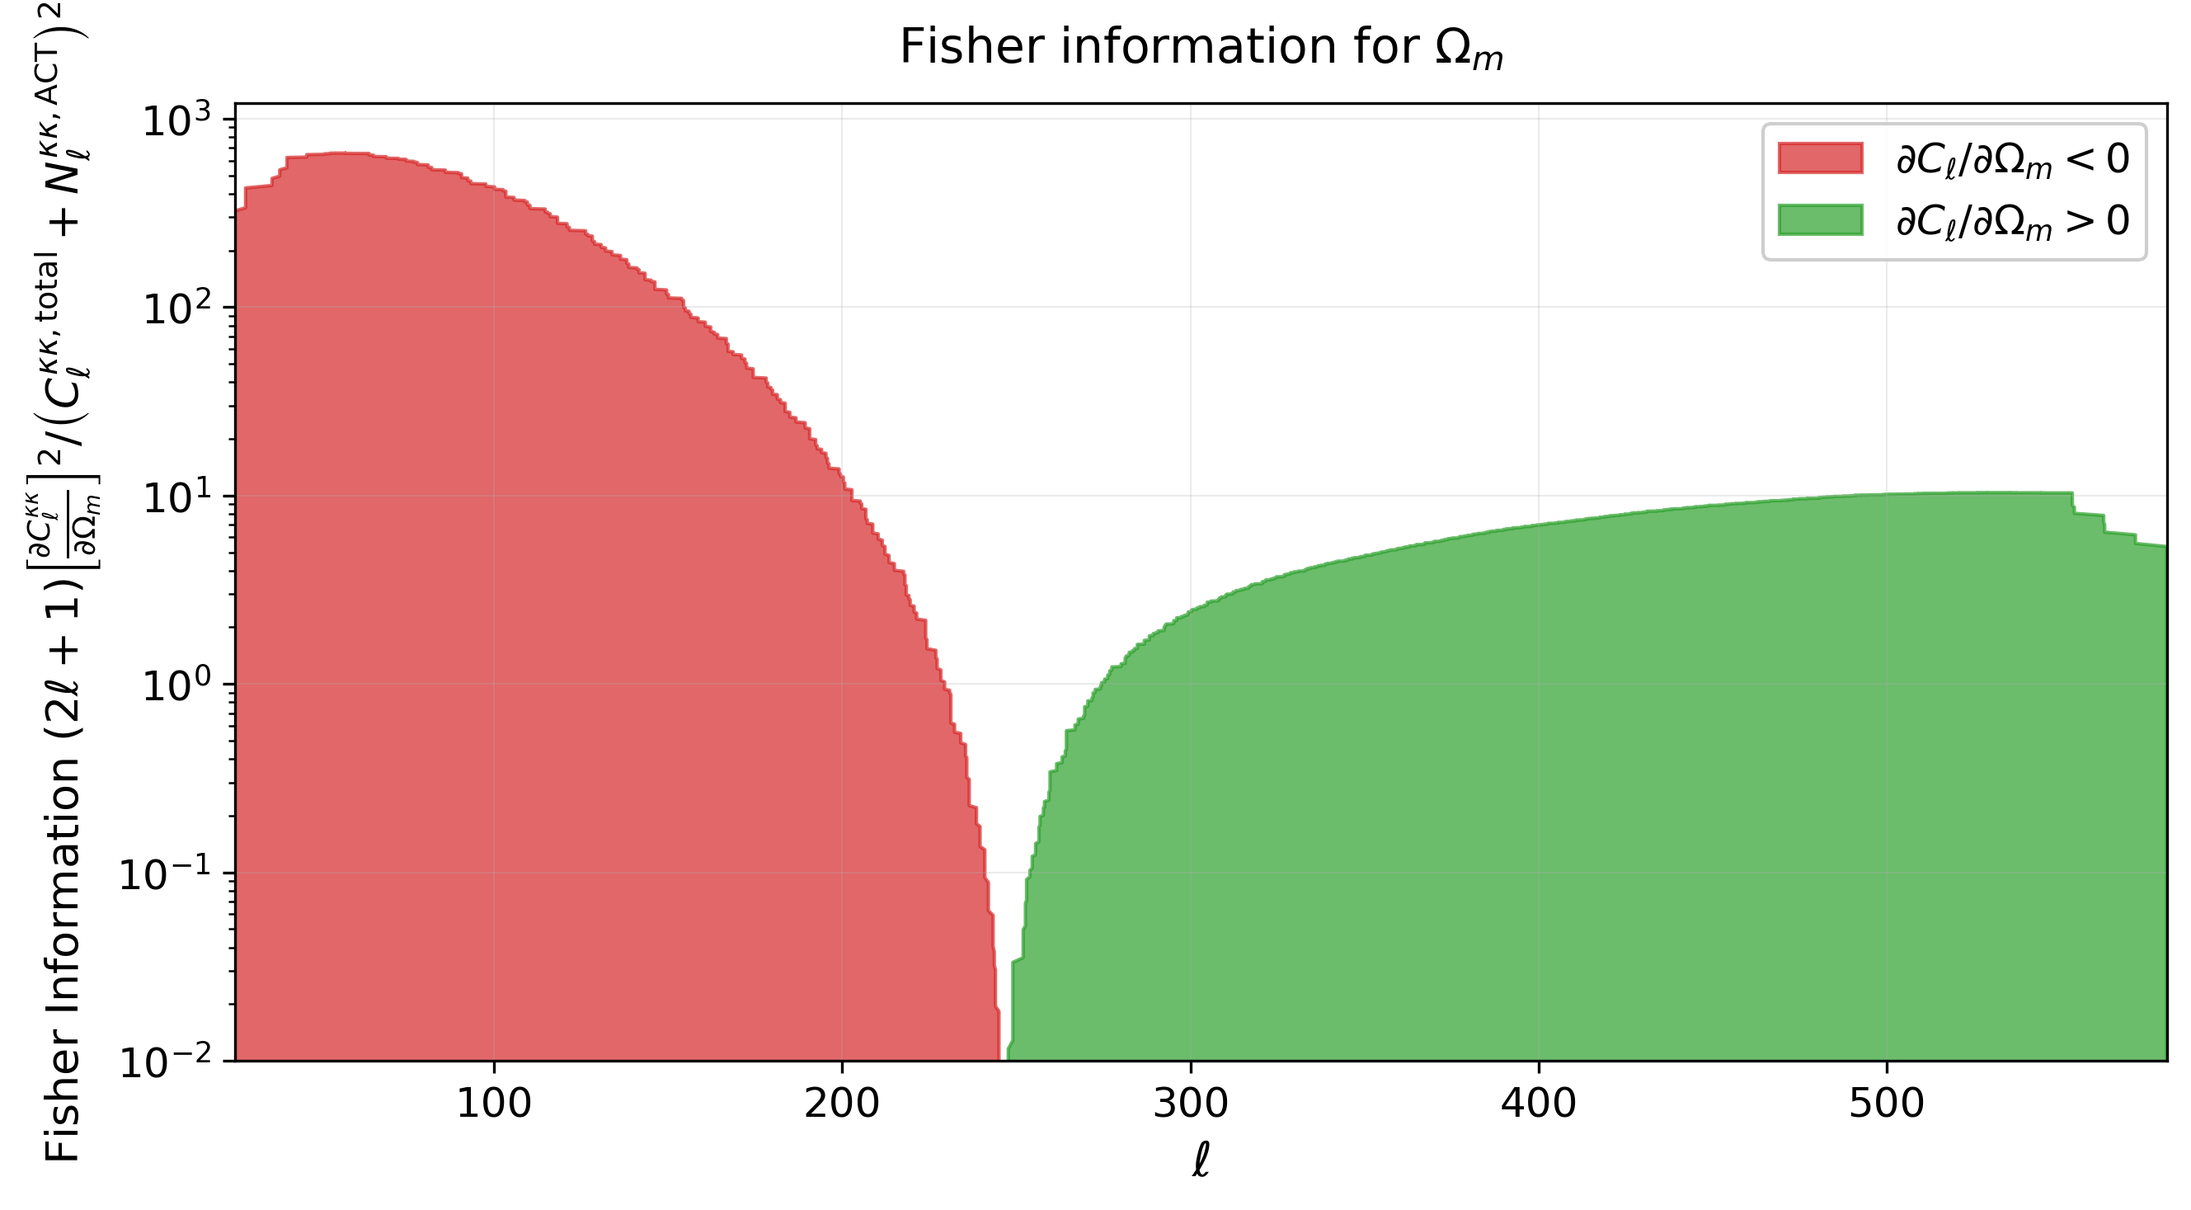
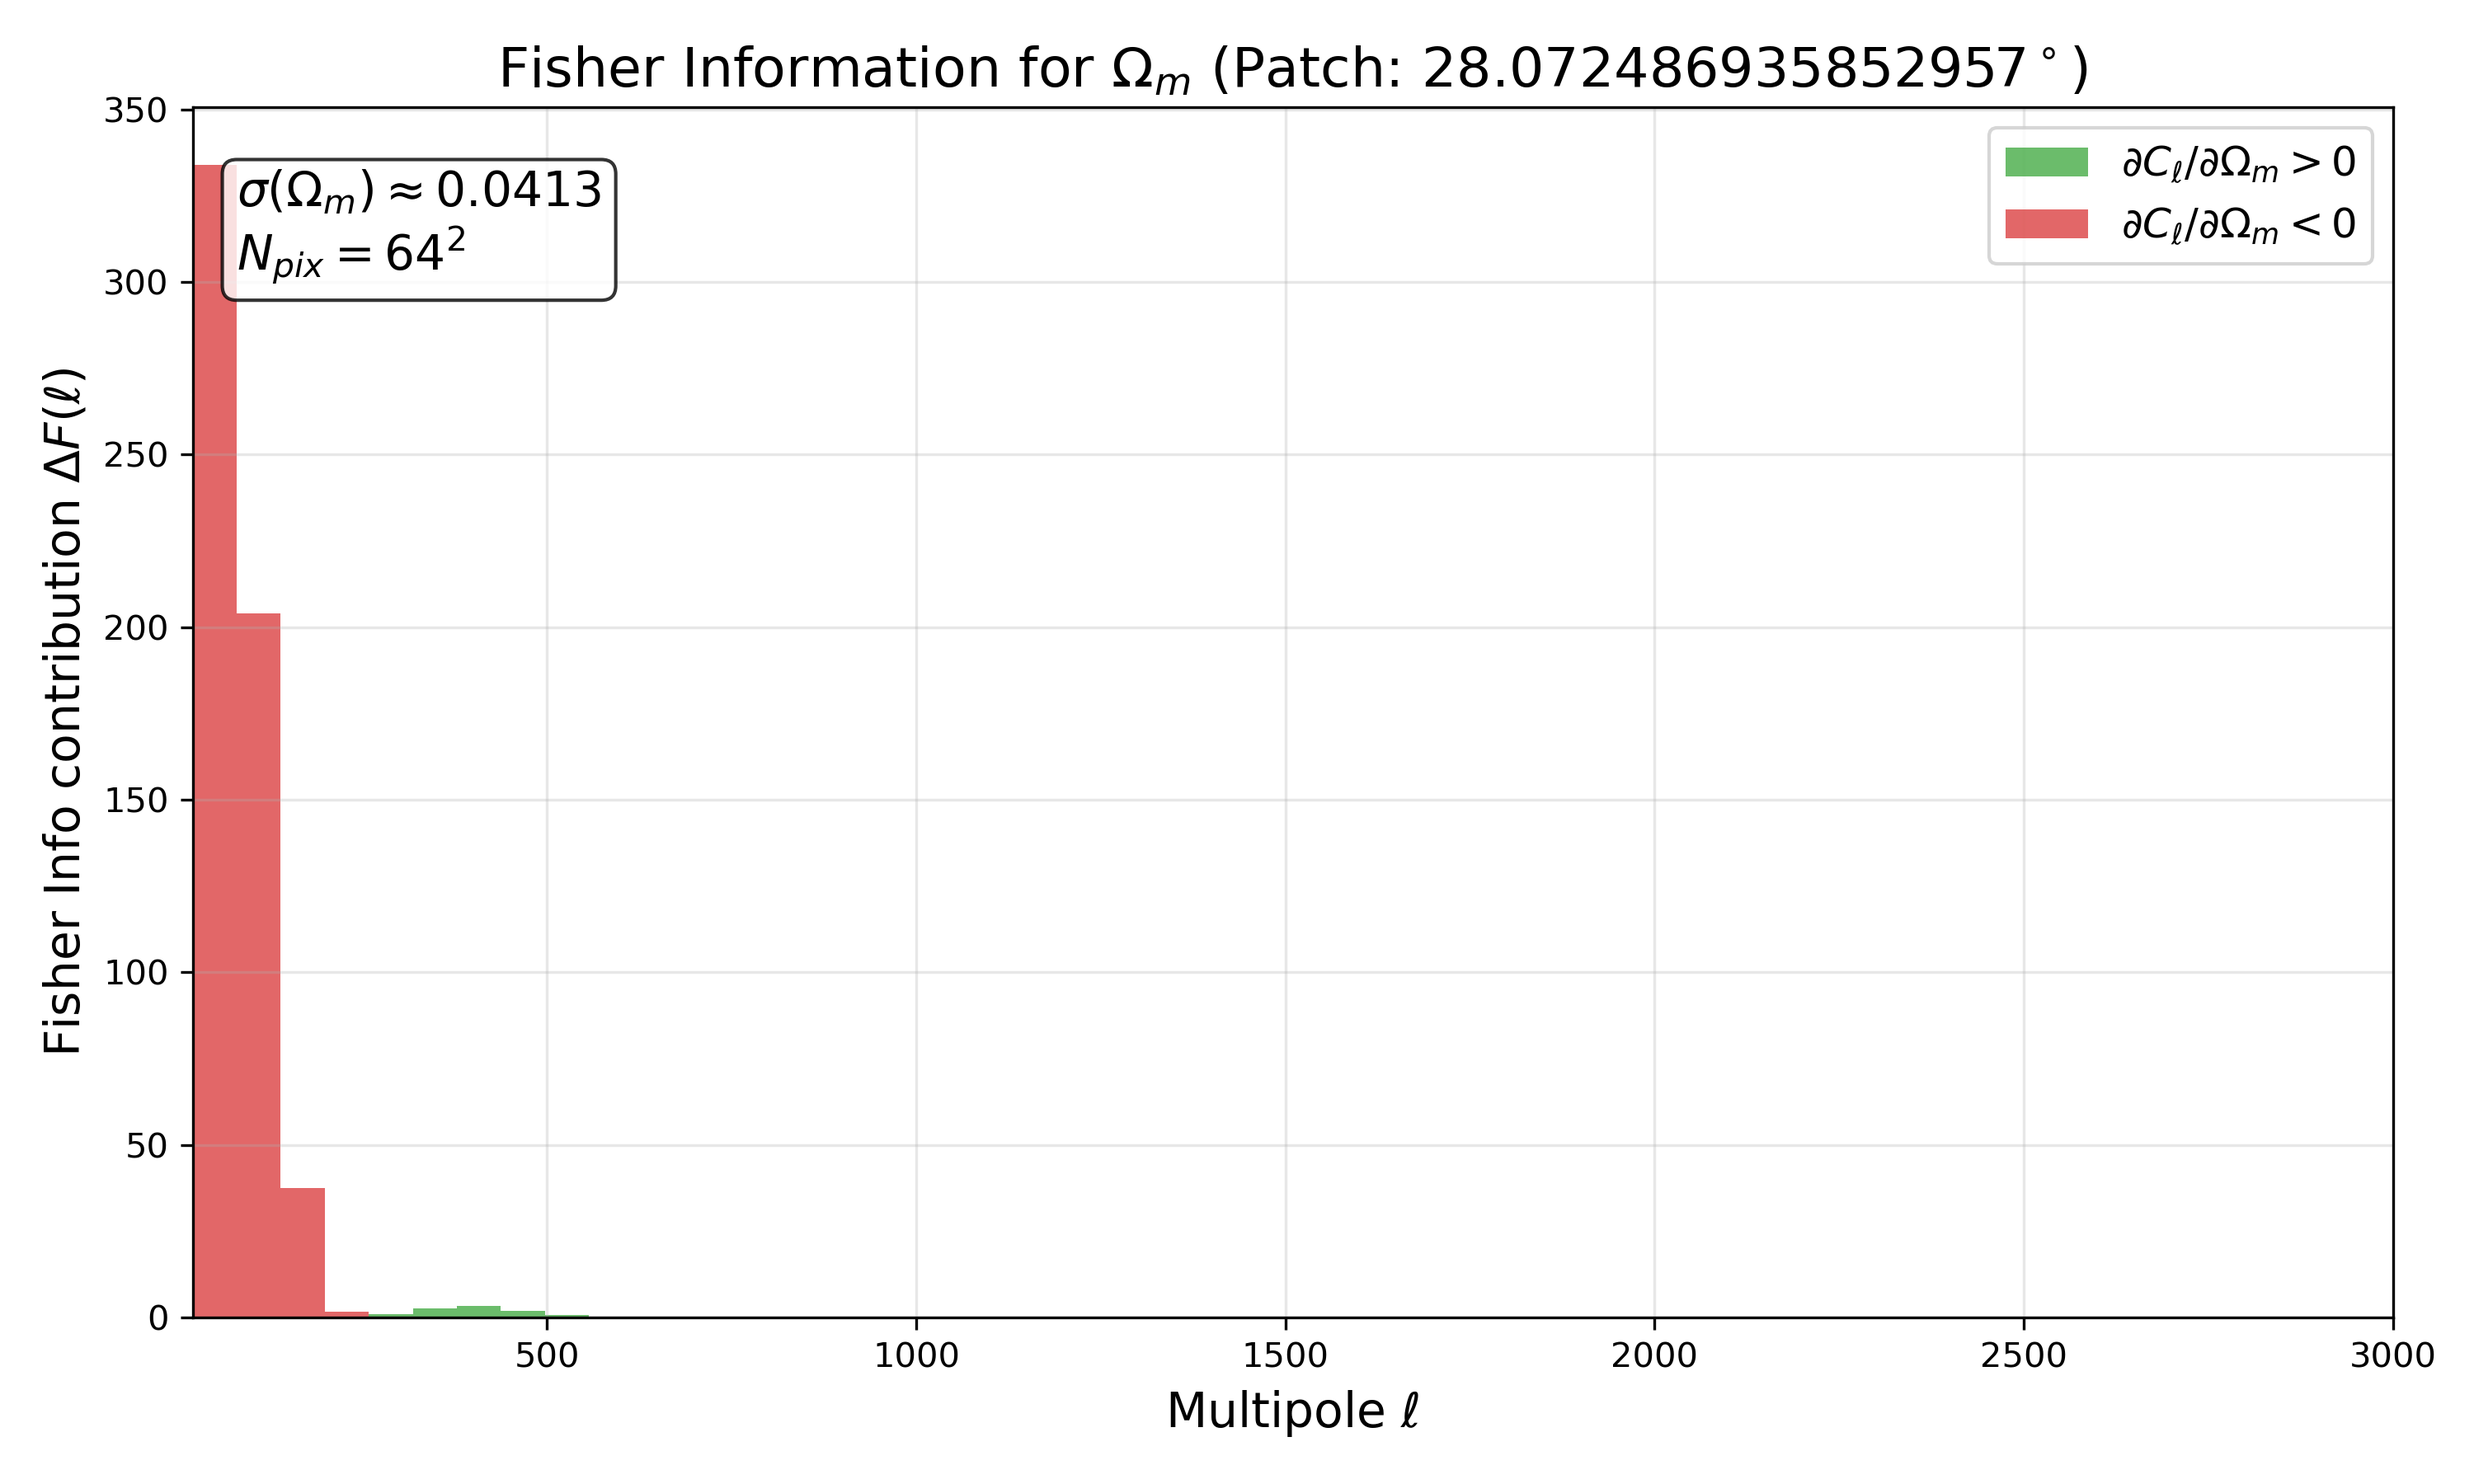
fisher analysis corrected

diff --git a/scripts/analyze_fisher_scales.py b/scripts/analyze_fisher_scales.py
@@ -1,3 +1,5 @@
+import os
+
 import jax.numpy as jnp
 import matplotlib.pyplot as plt
 import numpy as np
@@ -10,16 +12,20 @@ from desi_cmb_fli.model import get_model_from_config
 
 
 def simple_fisher(config_path="configs/inference/config.yaml"):
-    # 1. Load model to get ell grid and noise
+    print(f"Loading config from {config_path}...")
+
+    # 1. Load model configuration
     with open(config_path) as f:
         cfg = yaml.safe_load(f)
 
+    # Force CMB lensing enabled and setup for theoretical calculation
     if 'cmb_lensing' not in cfg:
         cfg['cmb_lensing'] = {}
 
     cfg['cmb_lensing']['enabled'] = True
-    cfg['cmb_lensing']['full_los_correction'] = False  # We'll compute full Cl manually
+    cfg['cmb_lensing']['full_los_correction'] = False  # We compute full Cl manually here
 
+    # Defaults if missing
     if 'cmb_noise_nell' not in cfg['cmb_lensing']:
         cfg['cmb_lensing']['cmb_noise_nell'] = "data/N_L_kk_act_dr6_lensing_v1_baseline.txt"
     if 'z_source' not in cfg['cmb_lensing']:
@@ -27,80 +33,116 @@ def simple_fisher(config_path="configs/inference/config.yaml"):
     if 'field_npix' not in cfg['cmb_lensing']:
         cfg['cmb_lensing']['field_npix'] = 256
 
+    # Instantiate model to get grid geometry and noise
     model, _ = get_model_from_config(cfg)
 
-    print("Computing total C_l (z=0 to z_CMB) and gradients...")
+    print("Computing gradients and Fisher info (this may take a moment)...")
 
-    # 2. Compute total Cl and gradients (full line of sight)
+    # 2. Setup Variables
     ell_2d = model.ell_grid
     noise_2d = model.cmb_noise_power_k
     loc_fid = model.loc_fid
 
-    # Wrapper function for differentiation
+    # Wrapper function for differentiation (Total C_l from z=0 to z_CMB)
     def get_cl_total(theta):
         Om, s8 = theta
+        # Reconstruct cosmology from params
         cosmo = get_cosmology(Omega_m=Om, sigma8=s8)
-        # full line of sight: chi_min = 1.0 (near z=0)
+
+        # Integrate from chi_min=1.0 (approx z=0) to chi_max=14000 (z_CMB)
+        # This captures the total lensing signal (Box + High-Z)
         return compute_theoretical_cl_kappa(
             cosmo, ell_2d,
-            chi_min=1.0,  # Start from z≈0
-            chi_max=14000.0,  # To z_CMB
-            z_source=1100.0
+            chi_min=1.0,
+            chi_max=14000.0,
+            z_source=cfg['cmb_lensing']['z_source']
         )
 
     # Fiducial point
     theta_fid = jnp.array([loc_fid["Omega_m"], loc_fid["sigma8"]])
 
-    # Compute Cl at fiducial
+    # 3. Compute Jacobian (Automatic Differentiation)
+    # This computes dCl / dTheta exactly
     Cl_2d = get_cl_total(theta_fid)
-
-    # Compute Jacobian (gradients)
     jac_fn = jacfwd(get_cl_total)
     grads = jac_fn(theta_fid)
-    dCl_dOm_2d = grads[..., 0]
 
-    # 3. Extract data (flatten 2D grids)
-    ell = ell_2d.flatten()
-    dCl = dCl_dOm_2d.flatten()
-    Cl = Cl_2d.flatten()
-    Nl = noise_2d.flatten()
+    dCl_dOm_2d = grads[..., 0] # Derivative w.r.t Omega_m
+    # dCl_ds8_2d = grads[..., 1] # Derivative w.r.t sigma8 (unused for this plot)
 
-    # 4. Filter and Sort (for plotting)
-    mask = (ell > 20) & (ell < 3000) & np.isfinite(dCl) & np.isfinite(Cl) & np.isfinite(Nl)
-    ell, dCl, Cl, Nl = ell[mask], dCl[mask], Cl[mask], Nl[mask]
+    # 4. Fisher Information Calculation
 
-    idx = np.argsort(ell)
-    ell, dCl, Cl, Nl = ell[idx], dCl[idx], Cl[idx], Nl[idx]
+    # Filter valid modes (remove DC mode l=0 and very high l where noise dominates)
+    mask = (ell_2d > 20) & (ell_2d < 3000) & \
+           jnp.isfinite(dCl_dOm_2d) & jnp.isfinite(Cl_2d) & jnp.isfinite(noise_2d)
 
-    # 5. Fisher Information calculation (per mode l)
-    Var = Cl + Nl
-    Fisher_per_mode = (dCl / Var)**2
+    ell_flat = ell_2d[mask]
+    dCl_flat = dCl_dOm_2d[mask]
+    Cl_flat = Cl_2d[mask]
+    Nl_flat = noise_2d[mask]
 
-    # Total info per multipole l (sum over 2l+1 modes m)
-    w_smooth = np.convolve(Fisher_per_mode * (2*ell+1), np.ones(50)/50, mode='same')
+    fisher_per_pixel = 0.5 * (dCl_flat / (Cl_flat + Nl_flat))**2
 
-    plt.figure(figsize=(9, 5))
+    # Total Information (Sum over all pixels)
+    total_fisher = jnp.sum(fisher_per_pixel)
+    predicted_sigma = 1.0 / jnp.sqrt(total_fisher)
 
-    # Red Zone vs Green
-    sign = np.sign(dCl)
-    plt.fill_between(ell, 0, w_smooth, where=(sign < 0), color='#d62728', alpha=0.7,
-                     label=r'$\partial C_\ell / \partial\Omega_m < 0$')
-    plt.fill_between(ell, 0, w_smooth, where=(sign > 0), color='#2ca02c', alpha=0.7,
-                     label=r'$\partial C_\ell / \partial\Omega_m > 0$')
+    print("-" * 50)
+    print(f"RESULTS FOR PATCH SIZE: {model.cmb_field_size_deg:.2f} deg")
+    print("-" * 50)
+    print(f"Total Fisher Info (Omega_m): {total_fisher:.2f}")
+    print(f"Predicted 1-sigma error on Omega_m: {predicted_sigma:.5f}")
+    print("-" * 50)
 
-    plt.xlabel(r"$\ell$", fontsize=14)
-    plt.ylabel(r"Fisher Information $(2\ell+1) \left[\frac{\partial C_\ell^{\kappa\kappa}}{\partial\Omega_m}\right]^2 / \left(C_\ell^{\kappa\kappa,\mathrm{total}} + N_\ell^{\kappa\kappa,\mathrm{ACT}}\right)^2$", fontsize=13)
-    plt.title(r"Fisher information for $\Omega_m$",
-              fontsize=14, pad=12)
-    plt.legend(fontsize=12, framealpha=0.95, loc='upper right')
-    plt.grid(alpha=0.25, linestyle='-', linewidth=0.5)
-    plt.xlim(ell.min(), ell.max())
-    plt.yscale('log')
-    plt.ylim(bottom=max(w_smooth[w_smooth > 0].min() * 0.5, 1e-2))
-    plt.tick_params(labelsize=12)
+    # 5. Binning for Plotting (1D representation)
+    # We aggregate the information from the 2D pixels into 1D ell-bins
+    n_bins = 50
+    l_min, l_max = 20, 3000
+    l_edges = np.linspace(l_min, l_max, n_bins + 1)
+    l_centers = 0.5 * (l_edges[1:] + l_edges[:-1])
+
+    # Sum Fisher info in each bin
+    fisher_1d, _ = np.histogram(ell_flat, bins=l_edges, weights=fisher_per_pixel)
+
+    # To calculate the sign of the derivative for the plot color (red/green)
+    # We need a weighted average of the sign in each bin
+    sign_weights = np.sign(dCl_flat) * fisher_per_pixel
+    sign_1d, _ = np.histogram(ell_flat, bins=l_edges, weights=sign_weights)
+    # If the accumulated weighted sign is negative, we paint red
+
+    # 6. Plotting
+    os.makedirs("figures", exist_ok=True)
+    plt.figure(figsize=(10, 6))
+
+    # Plot positive gradients (Green)
+    mask_pos = sign_1d >= 0
+    plt.bar(l_centers[mask_pos], fisher_1d[mask_pos], width=(l_max-l_min)/n_bins,
+            color='#2ca02c', alpha=0.7, label=r'$\partial C_\ell / \partial\Omega_m > 0$')
+
+    # Plot negative gradients (Red)
+    mask_neg = sign_1d < 0
+    plt.bar(l_centers[mask_neg], fisher_1d[mask_neg], width=(l_max-l_min)/n_bins,
+            color='#d62728', alpha=0.7, label=r'$\partial C_\ell / \partial\Omega_m < 0$')
+
+    plt.xlabel(r"Multipole $\ell$", fontsize=14)
+    plt.ylabel(r"Fisher Info contribution $\Delta F(\ell)$", fontsize=14)
+    plt.title(rf"Fisher Information for $\Omega_m$ (Patch: {model.cmb_field_size_deg}$^\circ$)", fontsize=16)
+    plt.legend(fontsize=12)
+    plt.grid(alpha=0.3)
+    plt.xlim(l_min, l_max)
+
+    # Stats box
+    textstr = '\n'.join((
+        rf'$\sigma(\Omega_m) \approx {predicted_sigma:.4f}$',
+        rf'$N_{{pix}} = {model.cmb_field_npix}^2$'))
+    props = {'boxstyle': 'round', 'facecolor': 'white', 'alpha': 0.8}
+    plt.gca().text(0.02, 0.95, textstr, transform=plt.gca().transAxes, fontsize=14,
+            verticalalignment='top', bbox=props)
+
     plt.tight_layout()
-    plt.savefig("figures/fisher.png", dpi=300, bbox_inches='tight')
-    print("✓ Figure saved: figures/fisher.png")
+    filename = f"figures/positive_correlation_diagnostic/fisher{model.cmb_field_npix}.png"
+    plt.savefig(filename, dpi=300)
+    print(f"✓ Figure saved: {filename}")
 
 if __name__ == "__main__":
     simple_fisher()
